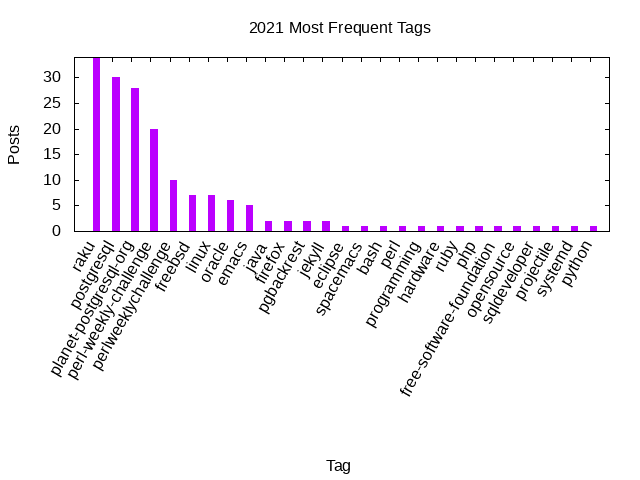
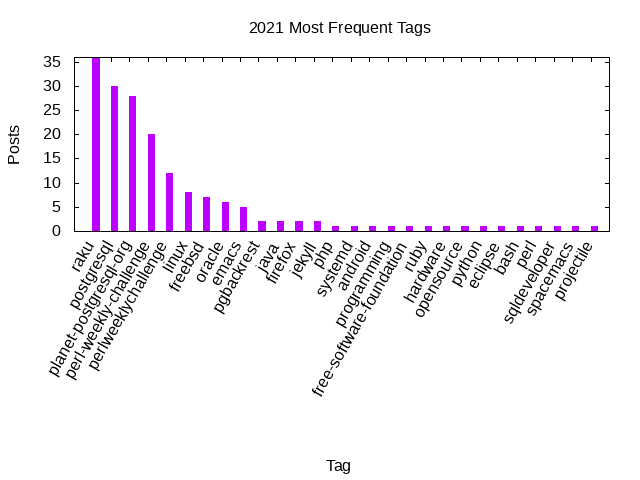
Stats update

Changed region(s): [[0.0625, 0.1562, 0.9375, 0.8125], [0.0625, 0.0938, 0.0938, 0.4375], [0.625, 0.6875, 0.6875, 0.8438]]

diff --git a/_includes/stats/2021.md b/_includes/stats/2021.md
@@ -1,37 +1,38 @@
 <a name="2021" />
 ## 2021 (work in progress)
 
-**80 total posts** have been written on 2021.
-There have been *27 different tags* used, the most
+**83 total posts** have been written on 2021.
+There have been *28 different tags* used, the most
 popular being (sorted by number of posts):
  
-- *raku* (34 posts)  
+- *raku* (36 posts)  
 - *postgresql* (30 posts)  
 - *planet-postgresql-org* (28 posts)  
 - *perl-weekly-challenge* (20 posts)  
-- *perlweeklychallenge* (10 posts)  
+- *perlweeklychallenge* (12 posts)  
+- *linux* (8 posts)  
 - *freebsd* (7 posts)  
-- *linux* (7 posts)  
 - *oracle* (6 posts)  
 - *emacs* (5 posts)  
+- *pgbackrest* (2 posts)  
 - *java* (2 posts)  
 - *firefox* (2 posts)  
-- *pgbackrest* (2 posts)  
 - *jekyll* (2 posts)  
+- *php* (1 posts)  
+- *systemd* (1 posts)  
+- *android* (1 posts)  
+- *programming* (1 posts)  
+- *free-software-foundation* (1 posts)  
+- *ruby* (1 posts)  
+- *hardware* (1 posts)  
+- *opensource* (1 posts)  
+- *python* (1 posts)  
 - *eclipse* (1 posts)  
-- *spacemacs* (1 posts)  
 - *bash* (1 posts)  
 - *perl* (1 posts)  
-- *programming* (1 posts)  
-- *hardware* (1 posts)  
-- *ruby* (1 posts)  
-- *php* (1 posts)  
-- *free-software-foundation* (1 posts)  
-- *opensource* (1 posts)  
 - *sqldeveloper* (1 posts)  
-- *projectile* (1 posts)  
-- *systemd* (1 posts)  
-- *python* (1 posts).<br/>
+- *spacemacs* (1 posts)  
+- *projectile* (1 posts).<br/>
 <br/>
 The following is the overall 2021 post ratio by month:
 <br/>
@@ -50,7 +51,7 @@ The following is the overall 2021 post ratio by tag (showing max 30 tags):
 
 <div align="right">
 <small>
-Last generated on 2021-08-23 at 9:48
+Last generated on 2021-09-06 at 14:55
 </small>
 </div>
 
